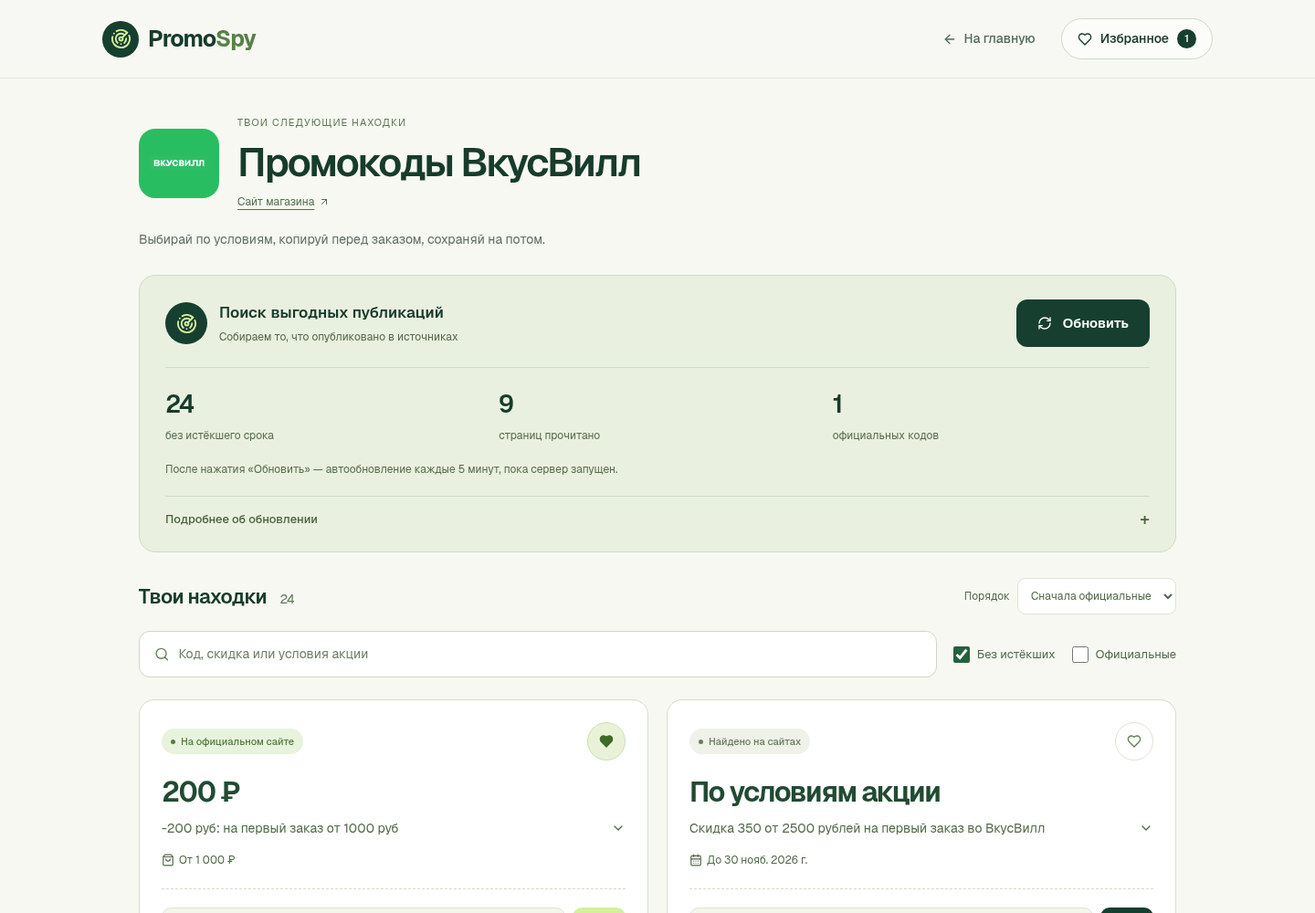
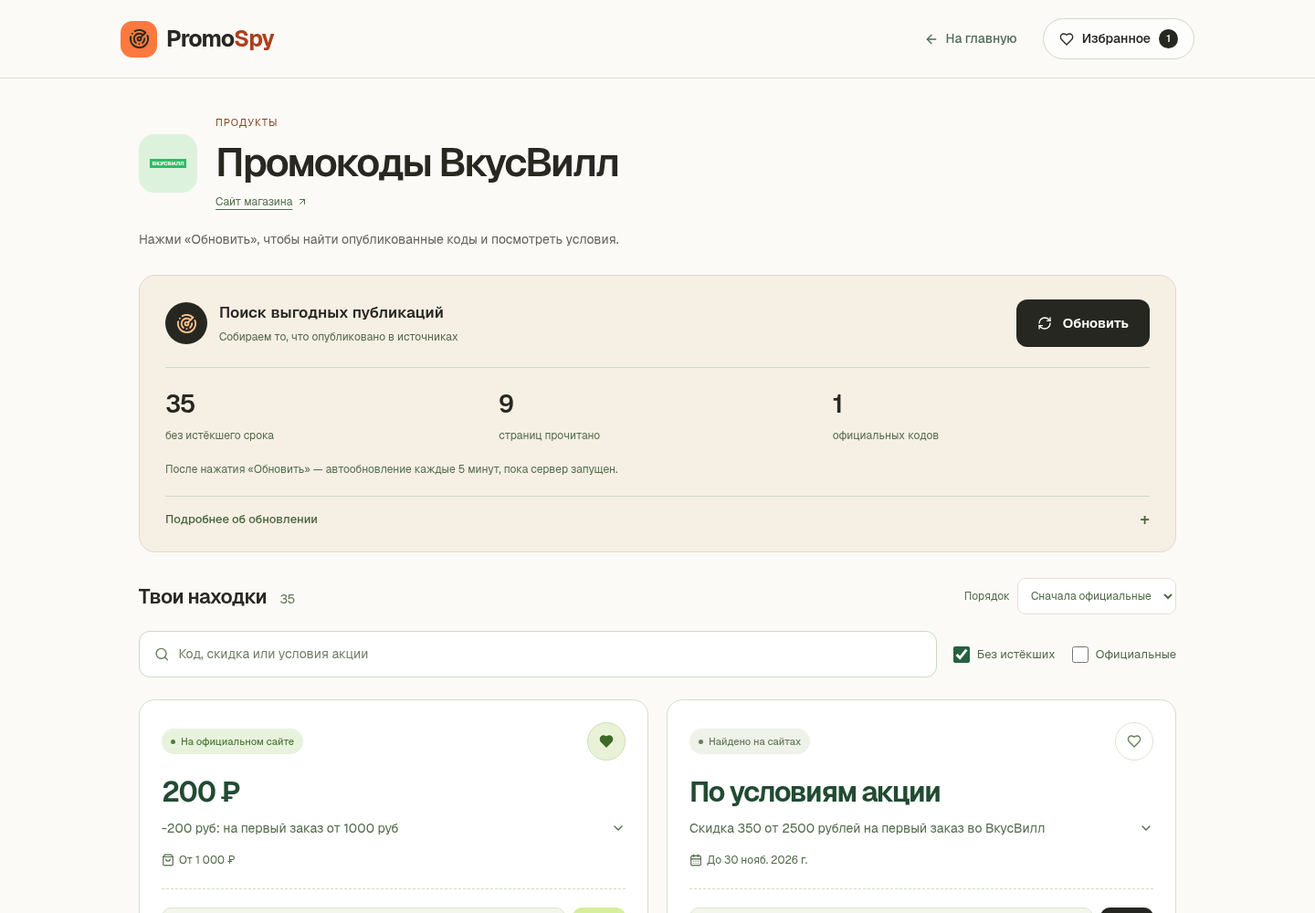
Update launch instructions, handoff and evidence from the live browser search

diff --git a/README.md b/README.md
@@ -1,87 +1,38 @@
-# PromoSpy — промокоды ВкусВилл
+# PromoSpy
 
-Бесплатный поиск опубликованных промокодов **ВкусВилл**. Условия, сроки, источники, копирование и избранное в одном месте. Без аккаунта, API-ключей и платных сервисов.
+Поиск опубликованных промокодов на продукты, рестораны и доставку. В каталоге ВкусВилл, Burger King, Вкусно — и точка, ROSTIC’S, Пятёрочка и Яндекс Еда.
 
-**Версия 0.16.0.** [Предпросмотр дизайна в Sites](https://promospy-preview-016-nov17.latternova2.chatgpt.site) (статический; живой поиск — в приложении ниже).
+[Открыть PromoSpy в GPT Sites](https://promospy-preview-016-nov17.latternova2.chatgpt.site) · [Скачать проект в ZIP](https://github.com/Startcpc/promospy/archive/refs/heads/main.zip)
 
- [Что изменено и что сделать после скачивания](NEXT_STEPS.md) · [Подробный запуск](START_HERE.md) · [Docker](docs/docker.md)
+![Главная страница PromoSpy с поиском и категориями магазинов](docs/design-desktop.png)
 
-![Интерфейс PromoSpy](docs/design-desktop.png)
+## Поиск
 
-## Скачать и передать другу
+Выберите магазин и нажмите **«Обновить»**. Найденные коды можно искать по условиям, сортировать по сроку или минимальной сумме заказа, копировать и сохранять в избранное. В карточке указаны источник и доступные условия. Окончательное применение к заказу проверяет магазин в корзине.
 
-Скачайте [ZIP из основной ветки](https://github.com/Startcpc/promospy/archive/refs/heads/main.zip) или клонируйте [репозиторий](https://github.com/Startcpc/promospy). В архиве весь исходный проект, скрытые настройки, lockfile, тесты и файлы запуска. Git для работы распакованного ZIP не нужен.
+Поисковик читает открытые страницы магазинов и каталогов. Учитывает robots.txt, маски кодов, даты и ограничения доступа. Если сайт недоступен, в деталях обновления видна причина. Остальные источники обрабатываются независимо. Настроенные адреса указаны в [реестре источников](src/lib/source-catalog.ts).
 
-Распакуйте архив полностью. Установите Python 3.9+ и запустите:
+В GPT Sites кнопка запускает поиск по опубликованным адресам магазинов. Страница повторяет поиск через пять минут, пока открыта. В версии для компьютера и Docker доступны также обнаружение источников, дисковый кеш и фоновое обновление выбранных магазинов, пока работает сервер. Избранное хранится на устройстве. Его можно экспортировать и импортировать на странице «Избранное».
 
-- **Windows:** двойной клик по `START_WINDOWS.cmd` или `python start.py`.
-- **macOS / Linux:** `python3 start.py`.
+## Запуск из ZIP
 
-Лаунчер подготовит Node.js и зависимости, соберёт приложение и откроет **http://localhost:3000**. Первый запуск требует интернет и может занять несколько минут. Остановка — **Ctrl+C**. Повторный запуск использует подготовленную сборку. Другой порт: `python3 start.py --port 3001`.
+Распакуйте проект и установите Python 3.9 или новее. Для Windows запустите `START_WINDOWS.cmd`, для macOS или Linux выполните `python3 start.py`. Лаунчер установит зависимости, соберёт приложение и откроет http://localhost:3000. При первом запуске нужен интернет.
 
-`node_modules`, кеш, секреты и сборка не входят в ZIP: лаунчер создаёт их для системы получателя. Избранное переносится отдельно через «Избранное → Перенос избранного».
+Для Docker выполните `docker compose up -d --build --wait` в папке проекта. Дальнейшие действия собраны в [NEXT_STEPS.md](NEXT_STEPS.md), [руководстве по запуску](START_HERE.md) и [инструкции Docker](docs/docker.md).
 
-## Docker
+## Разработка
 
-В папке распакованного проекта, с запущенным Docker Desktop или Docker Engine:
-
-```sh
-docker compose up -d --build --wait
-```
-
-Откройте http://localhost:3000. Остановка: `docker compose stop`. Логи: `docker compose logs -f --tail=100`. Кеш хранится в постоянном томе; не удаляйте том при обновлении. Образ версии 0.16.0 в Docker Hub не опубликован — эта команда собирает текущий код. [Диагностика и настройка](docs/docker.md).
-
-## Как пользоваться
-
-1. Откройте «Промокоды ВкусВилл» и нажмите **«Обновить»**. Открытие страницы само поиск не запускает.
-2. Сравните предложения. Есть поиск по коду и условиям, фильтр официальных публикаций, скрытие истёкших, сортировка по сроку и минимальной сумме заказа.
-3. Откройте условия карточки, скопируйте код или сохраните сердечком. Рядом с кодом видны сумма заказа и срок, если источник их указал.
-
-После первого нажатия сервер обновляет данные каждые **5 минут**, пока запущен. При открытии новой страницы нажмите «Обновить». Старый кеш не подмешивается в свежий поиск; избранное сохраняет свои копии. Повреждённое обновление хранилища не стирает последний читаемый список открытой вкладки. Длинные условия сохраняются при экспорте и импорте.
-
-Публикация кода не гарантирует применение в корзине. Официальная публикация отмечается отдельно. Неизвестные суммы и сроки не угадываются; разные условия одного кода остаются отдельными предложениями.
-
-## Источники и ограничения
-
-Сначала читается [официальная страница](https://vkusvill.ru/promocodes/), затем Пикабу, Промокоди, GetCashback, Promokod.com и Promocodex. Реестр и отключённые источники: [source-catalog.ts](src/lib/source-catalog.ts). Карты сайта, публичные ленты и поисковые индексы помогают находить страницы только на разрешённых доменах.
-
-Движок исключает маски кодов, чужие магазины и неполные предложения; сохраняет регистр. Ограничивает число запросов, повторяет временные ошибки, учитывает Retry-After и robots.txt. CAPTCHA, авторизация и отказ доступа пропускаются. Недоступность одного сайта не останавливает остальные. Скрытая вкладка и отсутствие сети приостанавливают опрос интерфейса.
-
-Нужен **один постоянно работающий Node-процесс с постоянным диском**. Несколько реплик и serverless требуют другой координации. `/api/health` проверяет приложение и запись кеша, а не внешние сайты. [Установка на сервер](docs/server-setup.md).
-
-## Разработка и проверки
-
-Node.js 22.18+ и pnpm 11.25.0:
+Требуются Node.js 22.18+ и pnpm 11.25.0.
 
 ```sh
 pnpm install --frozen-lockfile
 pnpm dev
-# Production:
-pnpm build
-pnpm start
 ```
 
-```sh
-pnpm exec playwright install chromium
-pnpm check
-# Либо использовать установленный Chromium:
-PROMO_TEST_CHROMIUM_EXECUTABLE=/usr/bin/chromium pnpm check
-# Отдельная проверка настоящей сети:
-pnpm test:live 54
-# Запущенное приложение: настоящий поиск, копирование и избранное в Chromium
-pnpm test:live:ui http://127.0.0.1:3000
-pnpm audit:sources 54
-pnpm audit --prod
-```
+Для полной проверки выполните `pnpm check`. Для браузерных тестов установите Chromium через `pnpm exec playwright install chromium` или задайте `PROMO_TEST_CHROMIUM_EXECUTABLE`. Команда `pnpm test:live` проверяет все магазины в сети, `pnpm test:live 402` проверяет «Вкусно — и точка». Для проверки через интерфейс запустите `pnpm build`, затем `pnpm start`, и в другом терминале выполните `pnpm test:live:ui http://localhost:3000 402`.
 
-`pnpm check`: lint, TypeScript, unit-тесты, поиск, Python-лаунчер, production-сборка и браузерные сценарии. Синтетические тестовые коды не попадают в рабочие данные. Сетевые проверки зависят от доступности источников.
+Сборка GPT Sites использует те же компоненты и парсер. После `pnpm build` выполните `node scripts/build-sites.mjs`. Модуль Worker записывается в `work/sites-worker/server/index.js`. Перед публикацией сверьте ID текущего проекта Sites в его манифесте. Проверяйте обновление на опубликованном адресе обычным поиском.
 
-`pnpm package:zip` создаёт ZIP текущего чистого коммита и файл SHA-256 в `work/`. Нужен Git; архив содержит все отслеживаемые файлы, включая скрытые настройки. Это команда подготовки релиза, для запуска полученного ZIP она не нужна.
+Для передачи зафиксированной версии выполните `pnpm package:zip` из чистого Git-репозитория. Архив с исходниками, тестами, настройками и файлами запуска появится в `work/` рядом с контрольной суммой. Настройки сервера и резервирование кеша описаны в [руководстве по установке](docs/server-setup.md).
 
-## Данные
-
-Кеш: `.cache/promo-search` либо `PROMO_SEARCH_DATA_DIR`. Резервирование: `pnpm cache:backup`; восстановление после остановки сервера: `pnpm cache:restore /путь/к/копии.json`. Лаунчер поддерживает `--backup` и `--restore`.
-
-Избранное хранится в браузере. Старый многомагазинный ключ не перезаписывается; импорт извлекает только ВкусВилл и сообщает о пропущенных магазинах. При запрете постоянного хранилища приложение предупреждает, что изменения доступны только до закрытия вкладки. Кеш и личное избранное не включаются в архив проекта.
-
-Дополнительные настройки, необязательные Chromium и локальная Ollama — в [.env.example](.env.example). Для обычного поиска они не нужны. Внешние AI API не используются.
+Фотографии для обложки получены из Unsplash. [Бургер](https://images.unsplash.com/photo-1568901346375-23c9450c58cd) · [Апельсины](https://images.unsplash.com/photo-1611080626919-7cf5a9dbab5b)

diff --git a/NEXT_STEPS.md b/NEXT_STEPS.md
@@ -1,57 +1,8 @@
-# Что делать после скачивания PromoSpy 0.16.0
+# После скачивания PromoSpy
 
-## Для тебя и друга
+1. Распакуйте ZIP полностью. Для Windows запустите `START_WINDOWS.cmd`. Для macOS или Linux выполните `python3 start.py` в папке проекта. При первом запуске нужны Python 3.9+ и интернет для установки зависимостей.
+2. Откройте http://localhost:3000. Выберите магазин. В строку поиска можно ввести «бургер кинг», а кнопкой «Рестораны» показать все три сети.
+3. Нажмите «Обновить». Раскройте условия найденного предложения и проверьте срок, город и тип заказа. Чтобы передать найденные предложения другу, откройте «Избранное» и экспортируйте сохранённые карточки.
+4. Чтобы поделиться приложением, перешлите исходный ZIP или ссылку на GitHub. Личное избранное переносится отдельным файлом. Подготовленные зависимости устанавливаются на компьютере получателя.
 
-1. **Полностью распаковать ZIP.** В нём все исходники, логотипы, шрифты, lockfile, настройки, тесты и файлы запуска. Не запускайте лаунчер прямо из окна архиватора.
-2. **Выбрать один способ запуска.** Python 3.9+: Windows — `START_WINDOWS.cmd`, macOS/Linux — `python3 start.py`. Либо с установленным Docker: `docker compose up -d --build --wait`. В первом варианте Node.js устанавливается автоматически. Интернет нужен для первой подготовки и поиска.
-3. Открыть **http://localhost:3000** → **«Промокоды ВкусВилл» → «Обновить»**. Не закрывать терминал/контейнер, пока приложение нужно. Не запускать две копии на одном порту; при необходимости использовать `python3 start.py --port 3001`.
-4. Если нужно перенести личные коды: в старом браузере открыть **«Избранное → Перенос избранного → Скачать файл»**, затем загрузить файл в новом браузере. ZIP проекта не содержит личного избранного.
-5. Для обновления Git-клона остановить приложение, выполнить `git pull --ff-only origin main`, снова запустить лаунчер. Для Docker повторить команду сборки. Существующие данные не удалять.
-
-Никаких ключей API, аккаунтов, базы данных или платной модели для обычного запуска настраивать не надо. Подробности: [START_HERE.md](START_HERE.md), [Docker](docs/docker.md), [сервер](docs/server-setup.md).
-
-## Что сделано
-
-- Полностью переработаны главная, карточки и стили поиска/избранного: крупный текст, удобные кнопки, адаптация к телефону, видимый фокус и переход к содержимому с клавиатуры.
-- Добавлены фильтр официальных публикаций, сортировка по сроку и минимальному заказу, сброс фильтров, сумма и срок прямо на карточке.
-- Исправлена потеря читаемого избранного при повреждённом обновлении localStorage другой вкладкой.
-- Исправлено обрезание длинных условий при сохранении и переносе избранного.
-- Исправлены старт страницы без сети и включение поиска после восстановления подключения. До первого нажатия поиск не запускается.
-- Неполный ответ API вызывает повтор запроса. Добавлена страница восстановления после непредвиденной ошибки.
-- Извлечение минимального заказа понимает дополнительные явные формулировки. Разные суммы для разных услуг не превращаются в одну придуманную сумму.
-- Исправлен standalone-запуск ZIP, распакованного внутрь другого Node workspace; сборка проверяет наличие серверного файла.
-- Исправлен перенос заголовка при отличающихся системных шрифтах.
-- Next.js и его ESLint-конфигурация обновлены до 16.4.5: закрыты две обнаруженные уязвимости зависимостей.
-- Удалены устаревшие дублирующие файлы передачи задач, старый отчёт релиза и неиспользуемая подсветка указателем. Инструкции больше не предлагают старый Docker-образ как текущую версию.
-- Добавлена команда `pnpm package:zip`: архив всех файлов чистого коммита + SHA-256. Зависимости, сборка, кеш и секреты в него не попадают.
-- Изменения отправлялись небольшими коммитами в `main`. Удалены ветки `fix/vkusvill-stabilization` и `feat/resilient-public-promo-discovery`, закрыт устаревший PR #1. Уникальный старый коммит доступен по тегу `archive/resilient-public-promo-discovery-2026-11-17`.
-
-## Проверка и границы результата
-
-На Linux / Node.js 24 прошли: lint, TypeScript, 266 unit-тестов, 25 проверок поиска, 12 тестов Python-лаунчера, production-сборка и 9 браузерных сценариев. `pnpm audit --prod`: известных уязвимостей нет.
-
-Реальный Chromium без подмены запросов проверил поиск, копирование `1раз`, избранное после перезагрузки и без сети. В 21:34 МСК 17 ноября 2026: 24 видимых предложения, 9 прочитанных страниц, все эти страницы вернули HTTP 200, ошибок JavaScript и HTTP в приложении нет. [Машинный отчёт](docs/live-search-verification.json) и [снимок поиска](docs/search-desktop.png).
-
-ZIP распакован в отдельную вложенную папку, зависимости установлены заново, Python-лаунчер собрал и запустил приложение; HTTP health и страницы проверены. Исправление сетки дополнительно проверено с широким резервным шрифтом на 320/390/768/1440 px. Последний GitHub Actions может ещё выполняться; предыдущий сбой узкой сетки исправлен.
-
-Docker-образ собран и запущен без root; health, настоящий поиск (24 предложения) и сохранность кеша после пересоздания контейнера проверены. Для HTTPS-прокси этой среды использован существующий `compose.ca.yaml` с доверенным CA; проверка TLS не отключалась.
-
-В реальном поиске 17 ноября 2026 года прочитано 9 страниц, найдено 24 предложения без истёкшего срока. Это наблюдение из этой сети, не обещание постоянного количества или успешного применения кода. Источники могут менять страницы, закрывать доступ и отзывать акции.
-
-## Что остаётся за пределами этого архива
-
-- **По желанию опубликовать Docker-образ 0.16.0.** В Docker Hub в рамках этой работы он не публиковался. Текущая версия запускается из исходников командой Compose выше. Старый тег 0.15.0 не содержит этих изменений.
-- Для публичного сайта выбрать сервер, домен и HTTPS, настроить постоянный диск и резервные копии по [инструкции сервера](docs/server-setup.md). Это не требуется для локального запуска у друга.
-- Нативный запуск на конкретном Windows/macOS проверить на компьютере получателя. Лаунчер имеет автоматические тесты; проверка Linux не заменяет запуск на каждой ОС.
-- Доступность внешних источников проверять повторно при изменении их разметки. CAPTCHA и закрытые страницы не обходятся. Применение в реальной корзине пользователь проверяет со своими условиями заказа.
-
-## Как снова собрать архив
-
-В чистом Git-клоне с установленными зависимостями:
-
-```sh
-pnpm check
-pnpm package:zip
-```
-
-Результат: `work/promospy-0.16.0.zip` и соседний `.sha256`. Архив соответствует одному коммиту. Внутри одна папка `promospy/`; Git для её запуска не нужен. Тяжёлые зависимости получатель устанавливает автоматически под свою платформу.
+Для обновления исходников и запуска на другом порту используйте [руководство по запуску](START_HERE.md). Для запуска в контейнере есть [инструкция Docker](docs/docker.md). Задача для дальнейшей разработки находится в [NEXT_AGENT_TASK.md](NEXT_AGENT_TASK.md).

diff --git a/NEXT_AGENT_TASK.md b/NEXT_AGENT_TASK.md
@@ -1,41 +1,14 @@
-# Задание следующему агенту — PromoSpy 0.16.0
+# Задание следующему агенту
 
-Репозиторий: https://github.com/Startcpc/promospy, рабочая ветка `main`.
-Сначала прочитать `AGENTS.md`, `README.md` и `NEXT_STEPS.md`. В `node_modules/next/dist/docs/` есть документация именно установленной версии Next.js; API error boundary использует `retry`.
+PromoSpy 0.17 ищет опубликованные промокоды для шести магазинов. Для проверки выберите магазин в каталоге и нажмите «Обновить». Ссылки и сроки показаны на карточках. Избранное и его экспорт работают в браузере.
 
-## Текущий результат
+## Следующая задача
 
-Приложение работает для одного магазина — ВкусВилл (54). Новый дизайн, фильтры и сортировка; исправления избранного, полных условий, offline и минимальной суммы заказа. Next.js 16.4.5. Устаревшие ветки удалены, PR #1 закрыт; уникальный старый коммит сохранён архивным тегом. `NEXT_STEPS.md` содержит инструкции пользователю и границы проверки.
+Проверьте покрытие официальных страниц у пяти новых брендов. Начните с одного магазина. Найдите публичную страницу акций на его домене и проверьте, опубликован ли там полный код вместе с условиями. Если на странице есть только общая скидка, оставьте её вне списка промокодов. Сохраните адрес, дату чтения и результат проверки. Добавляйте адаптер только для подтверждённой разметки.
 
-Проверено: 266 unit-тестов, 25 проверок поиска, 12 тестов лаунчера, 9 сценариев Chromium, lint, typecheck, production build, audit. Docker собран с CA данной среды; не отключать TLS. Кеш переживает пересоздание контейнера. Реальный браузер без mocks: 24 предложения, 9 страниц HTTP 200, clipboard, сохранение, reload/offline. Свидетельства: `docs/live-search-verification.json`, `docs/search-desktop.png`. Это результат 17.11.2026, а не обещание будущей доступности.
+## Проверка результата
 
-## Следующие задачи по приоритету
-
-1. Проверить GitHub Actions последнего коммита: предыдущий CI выявил переполнение сетки источников на 320 px с резервным шрифтом; исправлено и проверено локально на четырёх ширинах. Также проверен и исправлен standalone-запуск ZIP во вложенном Node workspace. Проверить GitHub Actions последнего коммита и устранить реальные сбои, если появились. Включены Linux Node 22/24, Windows, macOS и Docker. Не выдавать ожидаемый результат за выполненный.
-2. Запустить ZIP на реальных Windows/macOS. Здесь проверены Linux и автоматические тесты лаунчера; нативная проверка других ОС остаётся отдельно.
-3. Если нужен постоянный публичный **живой поиск**, развернуть Node/Docker на сервере с постоянным диском по `docs/server-setup.md`, настроить домен/HTTPS и резервирование. Статический предпросмотр дизайна в Sites не заменяет сервер поиска. Не переносить этот Node/fs crawler в статический хостинг без переработки.
-4. Если нужны готовые Docker-скачивания, после проверок опубликовать образ 0.16.0 с доступом владельца. Старый 0.15.0 не содержит обновления; не переименовывать старый образ в новый.
-5. По запросу пользователя улучшать извлечение из источников, которые дают HTTP 200, но неполные/непонятные карточки. Сначала снять `pnpm audit:sources 54`, проверить HTML и добавить содержательные регрессии. Не угадывать коды, валюты, сроки, скидки или условия.
-
-## Обязательные свойства
-
-- Первый поиск только по «Обновить»; не показывать старый кеш при открытии/перезагрузке страницы. Затем обновлять каждые 5 минут, пока сервер жив.
-- Сохранять условия целиком, регистр кодов, различия кампаний с одинаковым кодом. Не обещать применение в корзине.
-- Ошибка отдельного источника не прерывает остальные. Не обходить CAPTCHA, вход, robots.txt и ограничения доступа; не скрывать ошибки под выдуманными результатами.
-- Не удалять пользовательские избранное, кеш и бэкапы при очистке. Не возвращать SQLite, Prisma и старые магазины.
-- После каждой завершённой задачи — небольшой коммит и push. Пользователь особо просит не держать всю работу только локально.
-
-## Команды
-
-```sh
-pnpm install --frozen-lockfile
-PROMO_TEST_CHROMIUM_EXECUTABLE=/usr/bin/chromium pnpm check
-pnpm test:live 54
-# С уже запущенным приложением, без сетевых mocks:
-PROMO_TEST_CHROMIUM_EXECUTABLE=/usr/bin/chromium pnpm test:live:ui http://127.0.0.1:3000
-pnpm audit --prod
-# Из чистого Git-коммита:
-pnpm package:zip
-```
-
-Для пользовательского запуска: `python3 start.py`; Windows — `START_WINDOWS.cmd`. Интернет для первой установки и поиска обязателен. Результаты дополнительной работы дополнять в `NEXT_STEPS.md`; инструкцию для пользователя не размазывать по новым handoff-файлам.
+1. Проверьте правильный магазин, дату окончания и исключение карточек из блоков рекомендаций на небольших тестовых документах.
+2. Выполните `pnpm check`, затем `pnpm test:live ID`. Идентификаторы перечислены в `src/lib/companies.ts`.
+3. Запустите собранное приложение и выполните `pnpm test:live:ui http://127.0.0.1:3000 ID`. Сравните условия первой карточки с публикацией по ссылке. Сообщите отдельно, если источник недоступен или найдено ноль предложений.
+4. Отправляйте каждый завершённый шаг в GitHub. Для GPT Sites используйте действующий проект и проверяйте API поиска на опубликованном адресе. Для передачи проекта соберите ZIP командой `pnpm package:zip` после коммита.

diff --git a/docs/docker.md b/docs/docker.md
@@ -1,6 +1,6 @@
 # Запуск PromoSpy через Docker
 
-Для версии **0.16.0** соберите образ из этого ZIP или GitHub. Готовый образ этой версии в Docker Hub не опубликован. Нужен Docker Desktop (Windows/macOS, Linux containers) или Docker Engine с Compose v2 (Linux). Python и Node.js для этого варианта не нужны.
+Для версии **0.17.0** соберите образ из этого ZIP или GitHub. Готовый образ этой версии в Docker Hub не опубликован. Нужен Docker Desktop (Windows/macOS, Linux containers) или Docker Engine с Compose v2 (Linux). Python и Node.js для этого варианта не нужны.
 
 ## Сборка из репозитория
 
@@ -21,7 +21,7 @@ cd promospy
 docker compose up -d --build --wait
 ```
 
-Если проект уже скачан, выполняйте команды из его папки. Первый запуск требует интернет и время на сборку. Откройте **http://localhost:3000** → «Промокоды ВкусВилл» → **«Обновить»**. До нажатия кодов нет; после него поступают результаты свежего чтения. Далее сервер обновляет их каждые 5 минут, пока контейнер запущен.
+Если проект уже скачан, выполняйте команды из его папки. Первый запуск требует интернет и время на сборку. Откройте **http://localhost:3000** → карточку магазина → **«Обновить»**. До нажатия кодов нет; после него поступают результаты свежего чтения. Далее сервер обновляет их каждые 5 минут, пока контейнер запущен.
 
 Статус, логи и проверка приложения:
 

diff --git a/START_HERE.md b/START_HERE.md
@@ -28,7 +28,7 @@ python3 start.py
 
 Нужен Python 3.9+. Всё остальное подготовится автоматически при первом запуске, браузер откроется на **http://localhost:3000**. macOS 12 поддерживается выбранным Node 22 LTS. GitHub и Codespaces для работы сайта не нужны.
 
-Откройте «Промокоды ВкусВилл» и нажмите «Обновить». До нажатия страница пустая; после него коды появляются по мере свежего чтения источников. Далее результаты обновляются каждые **5 минут**, даже при закрытой вкладке, пока сервер запущен. Остановить сайт: **Ctrl+C**.
+Откройте карточку магазина и нажмите «Обновить». До нажатия страница пустая; после него коды появляются по мере свежего чтения источников. Далее результаты обновляются каждые **5 минут**, даже при закрытой вкладке, пока сервер запущен. Остановить сайт: **Ctrl+C**.
 
 Для первой подготовки и свежего поиска нужен интернет. Если порт занят: `python3 start.py --port 3001`. Для редактирования сайта: `python3 start.py --dev`.
 
